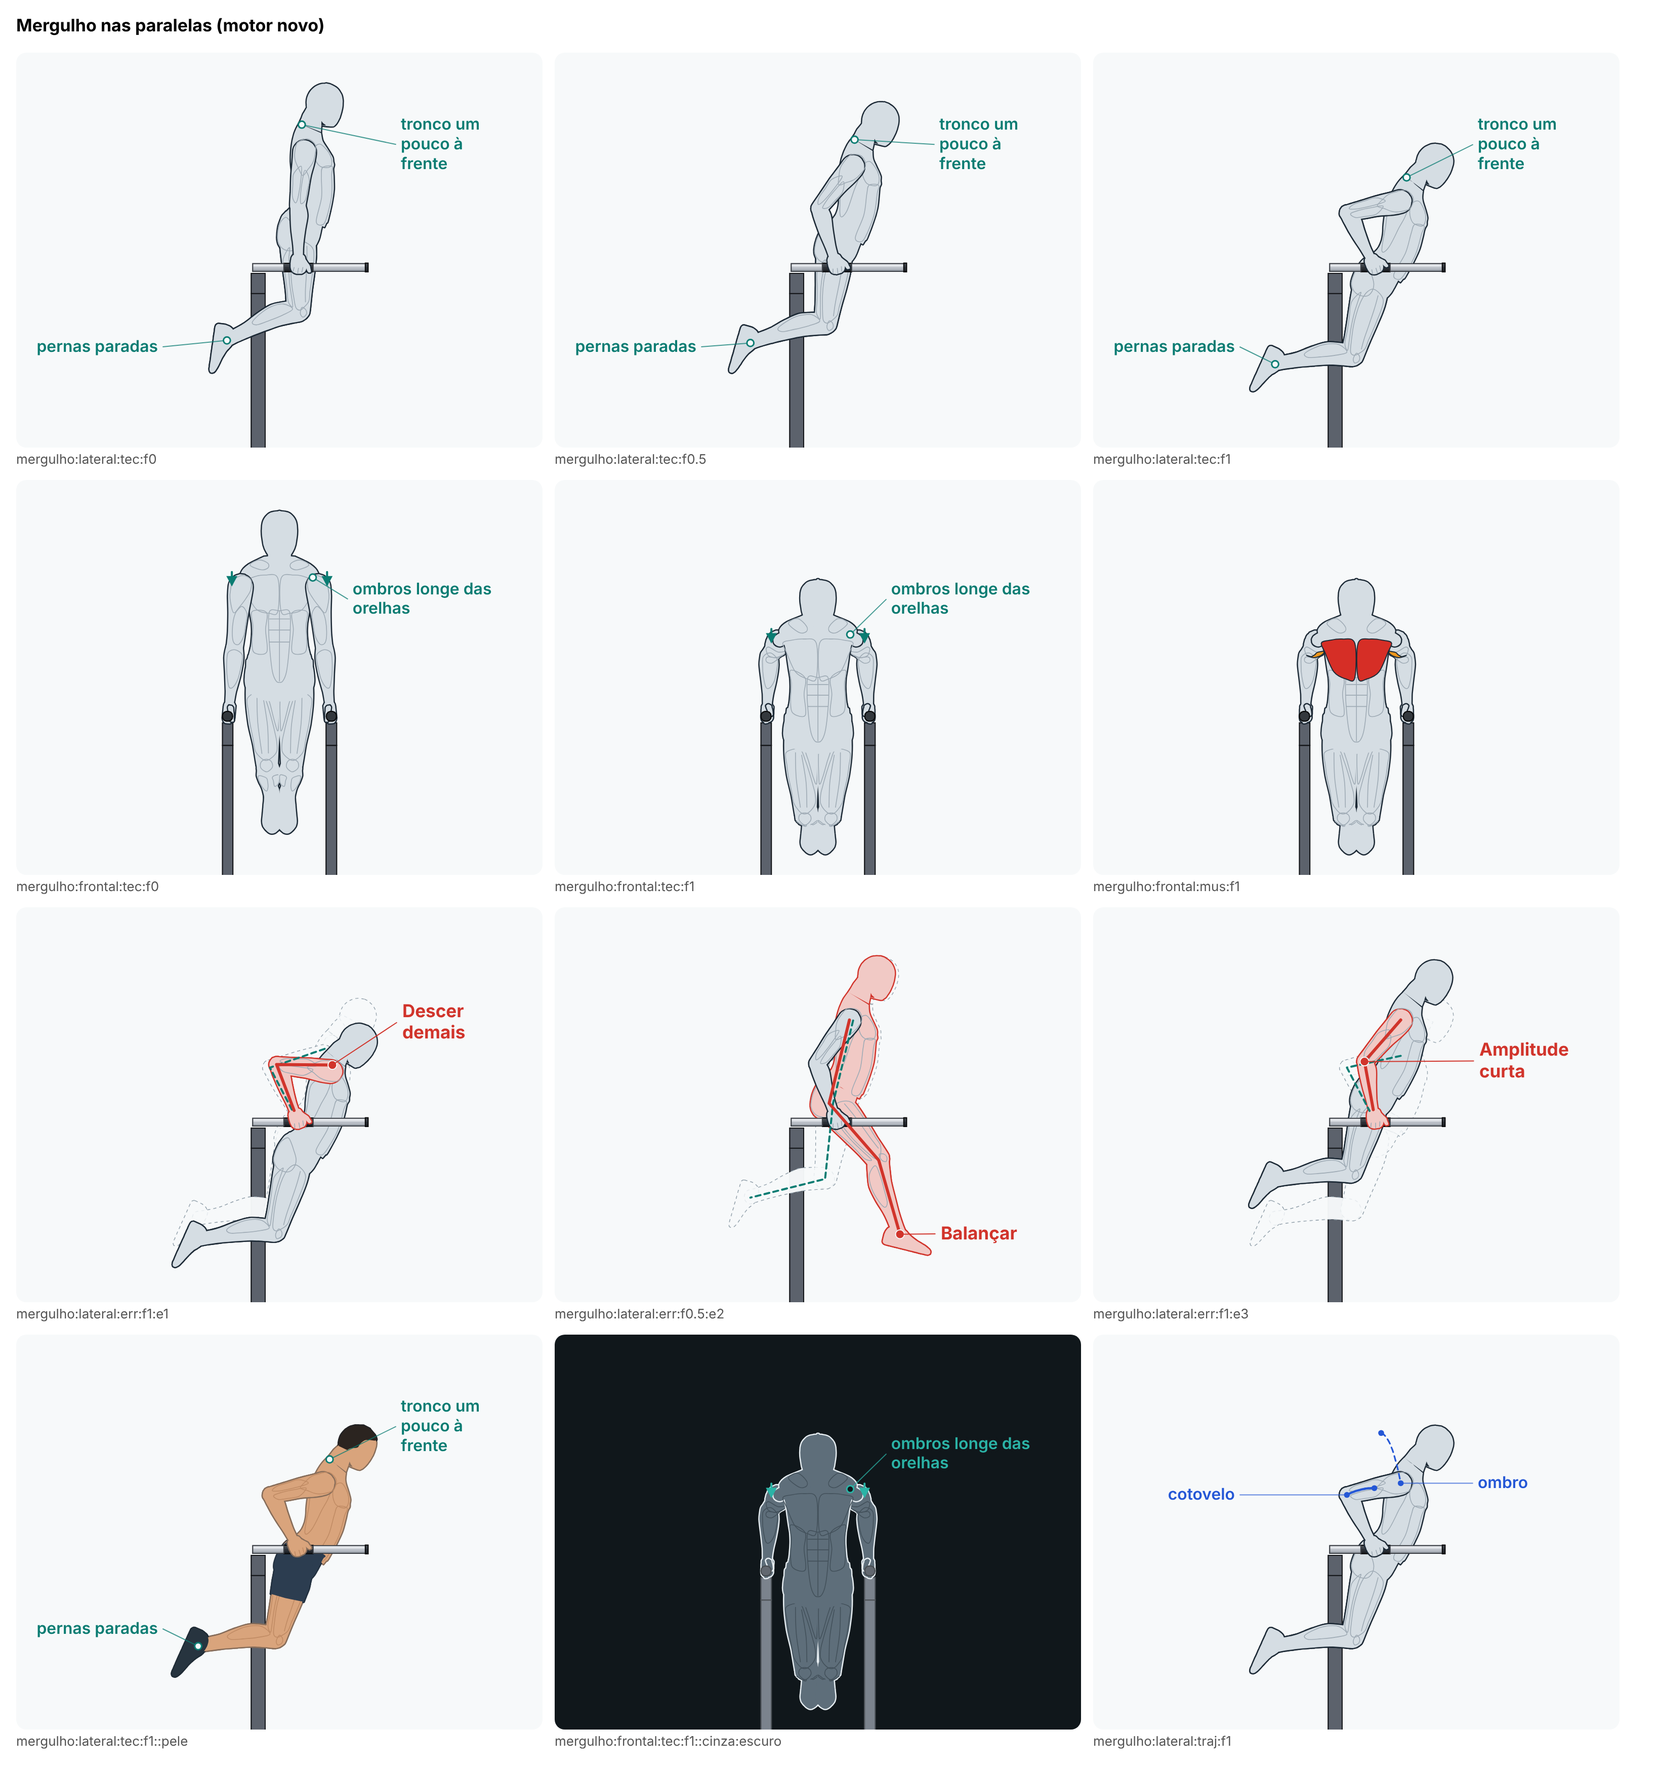
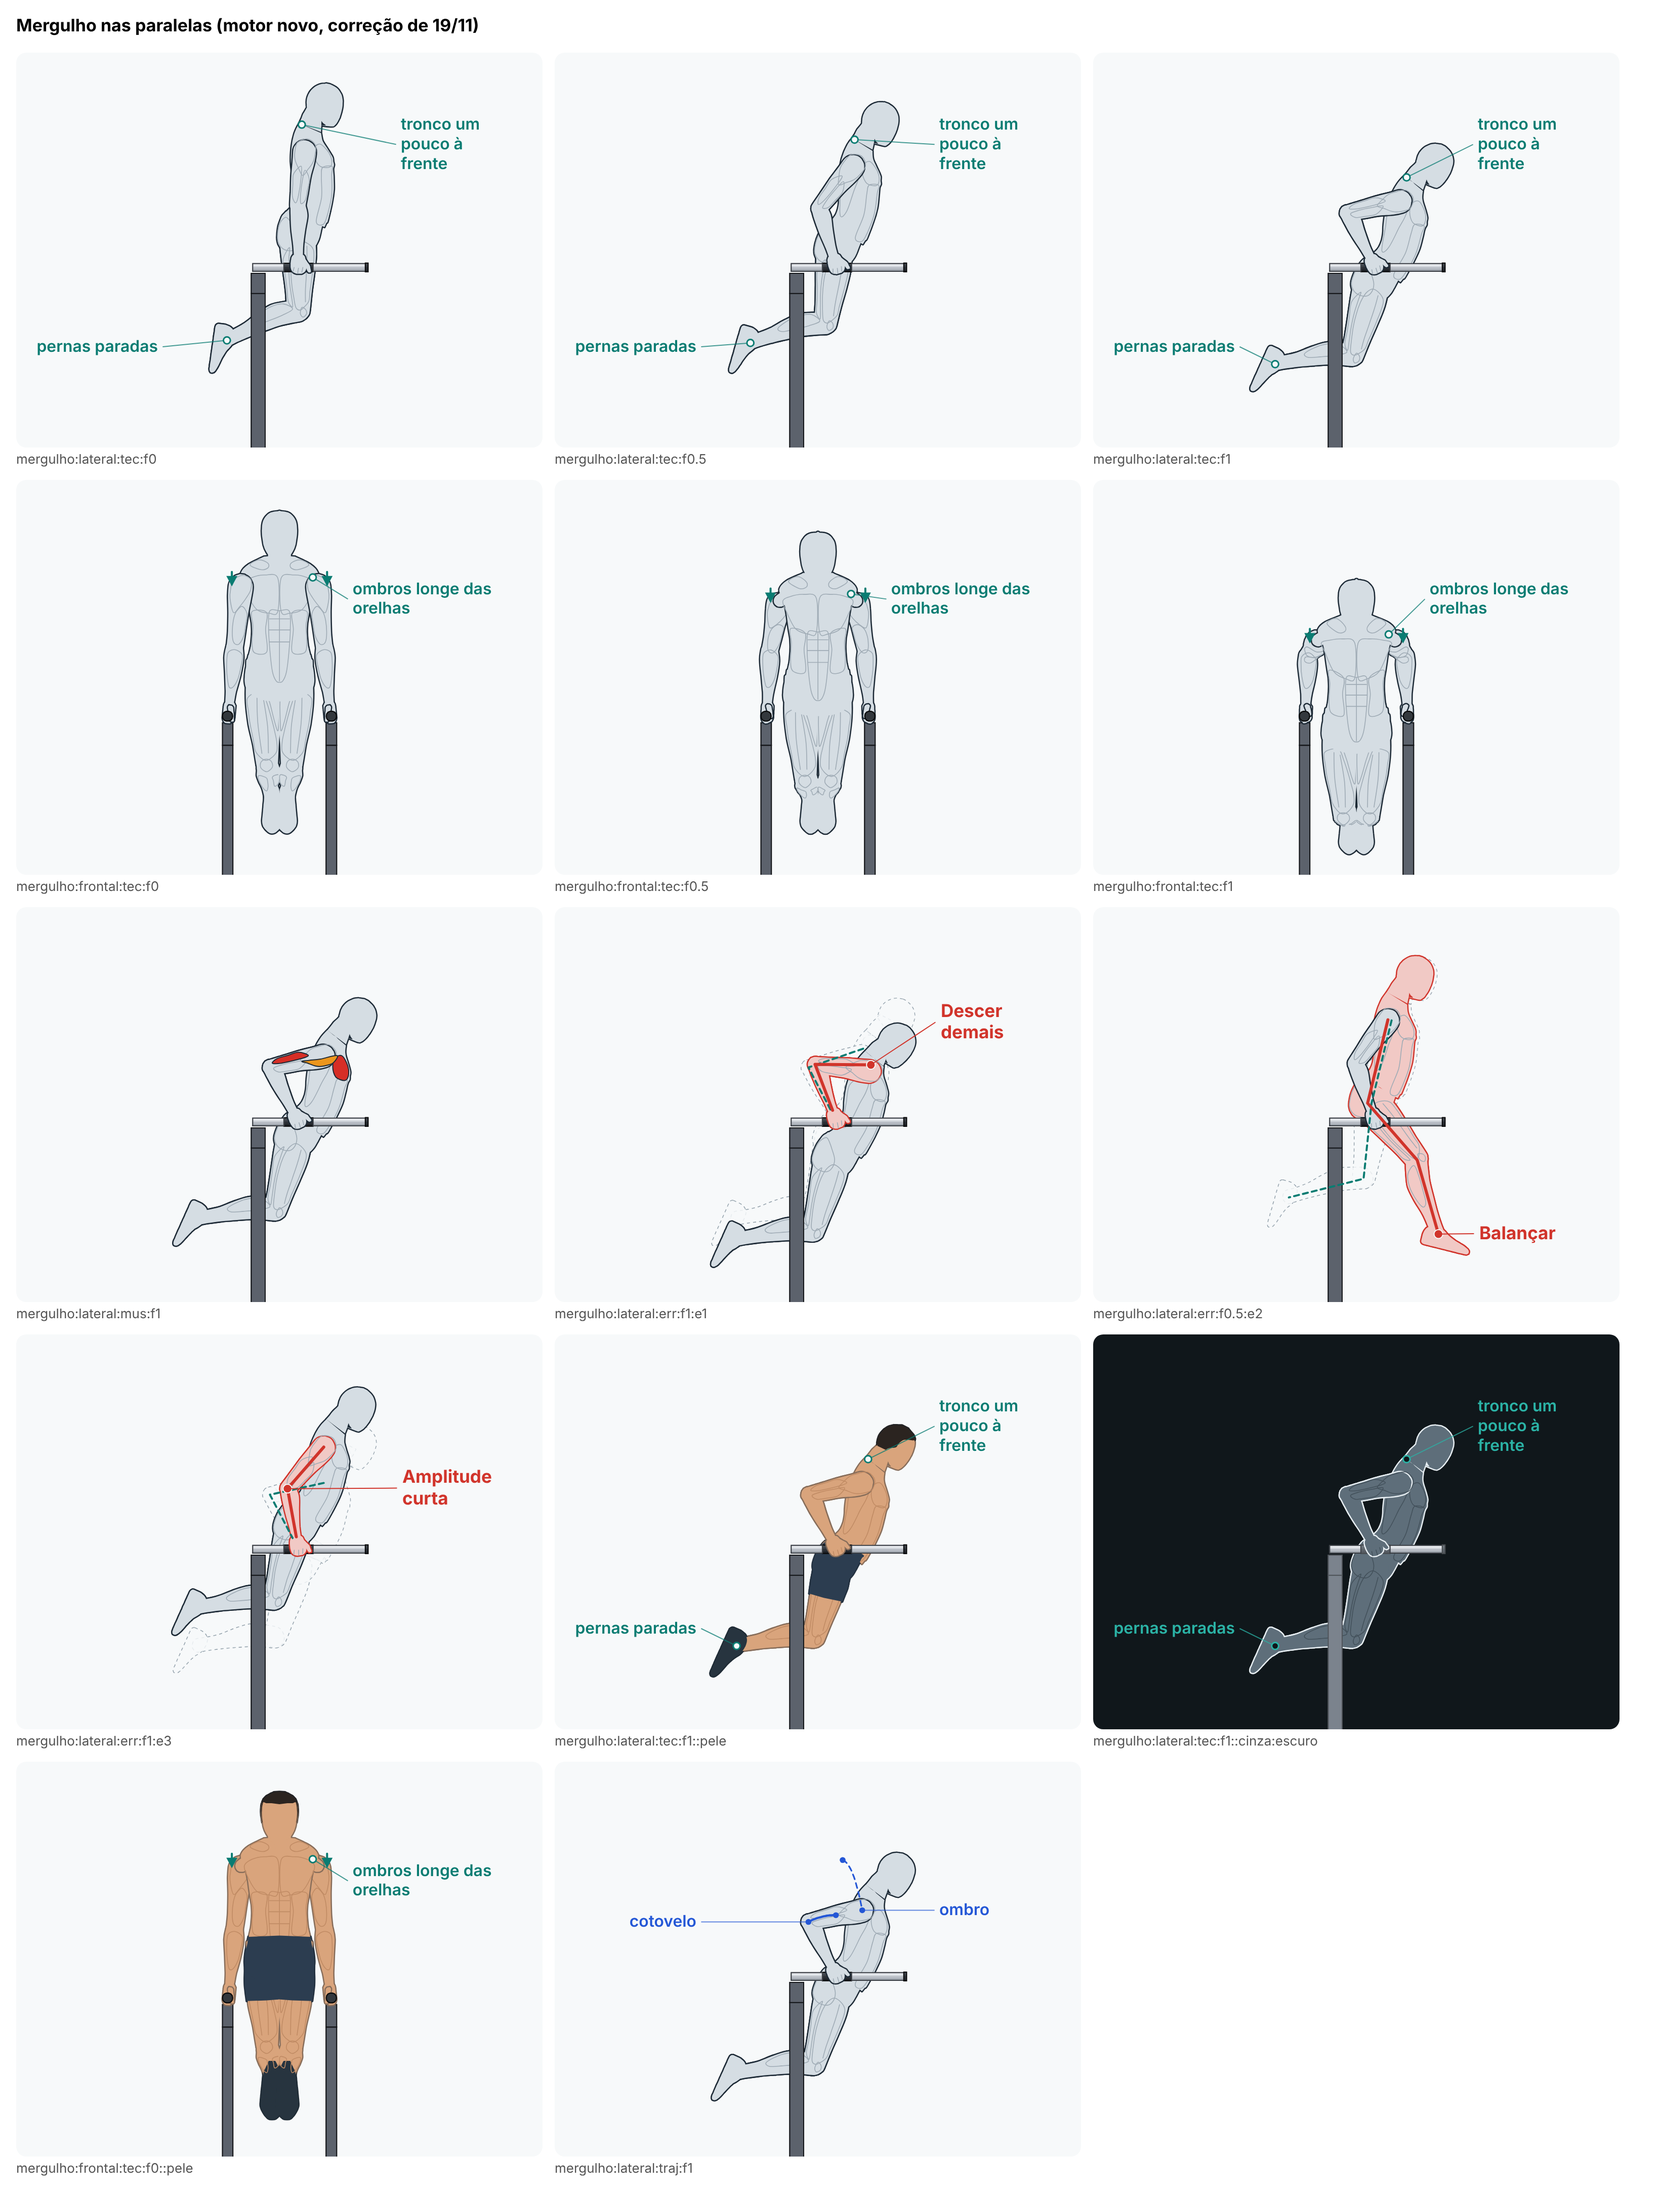
Põe a estrutura das paralelas no lugar dela no mergulho
De lado, as pernas apareciam na frente do montante da paralela de perto,
19 cm mais perto de quem olha: a estrutura era cenário, atrás do corpo.
A peça comum ganha a opção estruturaNoLugar, desligada por padrão; o
montante de perto passa a esconder 3% do corpo (uma faixa da canela).
Regra nova mergulho-paralelas-pintadas-no-lugar.

Claude-Session: https://claude.ai/code/session_01YRzts8DBGbsca9onebcMt1

diff --git a/src/engine/novo/pecas-de-cena/paralelas.ts b/src/engine/novo/pecas-de-cena/paralelas.ts
@@ -32,7 +32,40 @@ export function eixosDasParalelas(zMaos: number): Record<'R' | 'L', [V3, V3]> {
   return { R: [[-m, H, zM], [-m, H, zFim]], L: [[m, H, zM], [m, H, zFim]] };
 }
 
-export function paralelas(zMaos: number): { prims: Prim[]; peca: PecaPropria; estrutura: PecaPropria } {
+/**
+ * `estruturaNoLugar` (acréscimo de 19/11, desligado por padrão): a estrutura (os montantes até o chão e a base) é pintada
+ * na profundidade de cada parte, junto com o corpo, e não atrás dele; continua fora do enquadramento. Sem isso, de lado,
+ * as pernas, que ficam entre as paralelas, apareciam na frente do montante da paralela de perto (o mergulho, na
+ * auditoria das fases A e B).
+ */
+/**
+ * As partes da estrutura (fora as barras), na ordem em que `estrutura` as desenha, para as regras de pintura: os dois
+ * trilhos e as duas travessas da base, os quatro pés de borracha e, de cada lado (o direito, x < 0, e o esquerdo), o
+ * montante, o tubo que desce aberto até a base, o braço da frente e o tubo que desce dele. Cada uma: o eixo e o raio.
+ */
+export function partesDaEstrutura(zMaos: number): { eixo: V3[]; raio: number }[] {
+  const H = g('altura'),
+    r = g('diam') / 2,
+    m = g('vao') / 2,
+    tl = g('tuboLarg'),
+    tp = g('tuboProf'),
+    larg = g('larg') / 2,
+    comp = g('comp') / 2;
+  const { zM, zBase } = medidas(zMaos);
+  const out: { eixo: V3[]; raio: number }[] = [];
+  for (const s of [-1, 1]) out.push({ eixo: [[s * larg, 2, zBase - comp], [s * larg, 2, zBase + comp]], raio: 2 });
+  for (const z of [zBase - comp, zBase + comp]) out.push({ eixo: [[-larg, 2, z], [larg, 2, z]], raio: 2 });
+  for (const sx of [-1, 1]) for (const z of [zBase - comp + 3, zBase + comp - 3]) out.push({ eixo: [[sx * (larg - 2), 0.6, z]], raio: 3 });
+  for (const s of [-1, 1]) {
+    const x = s * m;
+    out.push({ eixo: [[x, H - r - 12, zM], [x, 30, zM]], raio: Math.min(tl, tp) / 2 });
+    out.push({ eixo: [[x, 30, zM], [s * larg, 3, zM]], raio: Math.min(tl, tp * 0.8) / 2 });
+    out.push({ eixo: [[x, 30, zM], [x, 30, zBase + comp]], raio: 2 });
+    out.push({ eixo: [[x, 30, zBase + comp], [s * larg, 3, zBase + comp]], raio: 2 });
+  }
+  return out;
+}
+export function paralelas(zMaos: number, o: { estruturaNoLugar?: boolean } = {}): { prims: Prim[]; peca: PecaPropria; estrutura: PecaPropria } {
   const H = g('altura'),
     r = g('diam') / 2,
     m = g('vao') / 2,
@@ -67,7 +100,7 @@ export function paralelas(zMaos: number): { prims: Prim[]; peca: PecaPropria; es
   const estrutura: PecaPropria = {
     t: 'propria',
     nome: 'estrutura das paralelas',
-    cenario: true,
+    ...(o.estruturaNoLugar ? { noQuadro: [] } : { cenario: true }),
     fixa: [zMaos],
     desenhar(C, M, o) {
       const larg = g('larg') / 2,

diff --git a/src/engine/novo/regras/mergulho.ts b/src/engine/novo/regras/mergulho.ts
@@ -6,9 +6,11 @@ import { f1, faixa } from '../conferir-util';
 import type { Regra } from '../conferir-util';
 import { LADOS, poseEmPe, resolver } from '../esqueleto';
 import type { Esq } from '../esqueleto';
-import { bracoAbaixoDaHorizontal } from '../exercicios/mergulho';
+import { bracoAbaixoDaHorizontal, mergulho } from '../exercicios/mergulho';
+import { partesDaEstrutura } from '../pecas-de-cena/paralelas';
 import type { Corpo } from '../tabelas';
 import { angulo, mul, paraRef, sub } from '../vec';
+import { regraDePintura } from './ordem-de-pintura';
 
 const primeiro = <T>(q: T[]) => q[0]!;
 const ultimo = <T>(q: T[]) => q[q.length - 1]!;
@@ -29,6 +31,17 @@ function ombroAOrelhaEmPe(corpo: Corpo): number {
 const pernas = (e: Esq) => ({ quadril: angulo(sub(e.lado.R.joelho, e.lado.R.quadril), mul(e.pelve.y, -1)), joelho: e.lado.R.ang.joelho });
 
 export const REGRAS_MERGULHO: Record<string, Regra> = {
+  // A estrutura das paralelas (os montantes até o chão e a base, parte por parte) contra o corpo, nos dois lados, em
+  // cada vista do guia (acréscimo de 19/11, auditoria das fases A e B): de lado, as pernas, que ficam entre as
+  // paralelas, apareciam na frente do montante da paralela de perto, 19 cm mais perto de quem olha.
+  'mergulho-paralelas-pintadas-no-lugar': regraDePintura({
+    exercicio: () => mergulho,
+    nome: 'a estrutura das paralelas',
+    peca: (q) => {
+      const p = q.pecas?.find((x) => x.t === 'propria' && x.nome === 'estrutura das paralelas');
+      return p ? [{ peca: p, partes: partesDaEstrutura(0).map((pa, i) => ({ ...pa, itens: [i] })) }] : [];
+    },
+  }),
   'mergulho-bracos-estendidos-em-cima': (q) => {
     const c = primeiro(q).esq.lado.R.ang.cotovelo;
     return { medido: `em cima, o cotovelo dobra ${f1(c)}°`, ok: c >= 3 && c <= 15 };

diff --git a/src/engine/novo/exercicios/mergulho.ts b/src/engine/novo/exercicios/mergulho.ts
@@ -78,7 +78,9 @@ function quadro(corpo: Corpo, u: number, erro?: string): Quadro {
   // o cotovelo vai da dobra de cima à de baixo, sem tranco; a altura do corpo sai dele, com o corpo no prumo
   const balanco = erro === 'e2' ? f('erro.balanco.z') * Math.sin(Math.PI * u) ** 2 : 0;
   const e = corpoCom(corpo, u, mix(f('cotovelo.cima'), embaixo, u), erro, balanco);
-  const par = paralelas(0);
+  // a estrutura das paralelas no lugar dela na pintura: de lado, o montante da paralela de perto fica na frente das
+  // pernas (19 cm mais perto de quem olha), e não atrás delas (a regra mergulho-paralelas-pintadas-no-lugar mede)
+  const par = paralelas(0, { estruturaNoLugar: true });
   const eixo = eixosDasParalelas(0);
   return {
     esq: e,

diff --git a/docs/revisoes/animacao-nova/lote-A6/mergulho.md b/docs/revisoes/animacao-nova/lote-A6/mergulho.md
@@ -54,3 +54,19 @@ As paralelas são a peça aprovada da elevação de joelhos nas paralelas (Body-
 - **De frente, a descida quase não aparece:** os cotovelos vão para trás e somem atrás do braço; a vista de frente serve aos ombros e ao peito. De três quartos a descida se lê melhor, mas o peito some (ver "As vistas").
 - **As pernas dobradas com os pés para trás** são escolha de desenho (a ficha não diz); com as barras a 132 cm, as pernas esticadas também não chegariam ao chão.
 - **No erro "Balançar"**, de lado, as pernas esticadas para a frente ficam desenhadas por cima do montante das paralelas (só sobreposição; elas não encostam nele).
+
+## Correção de 19/11 (auditoria)
+
+A auditoria das fases A e B (M2) achou que, de lado, as pernas, que ficam entre as paralelas, apareciam na frente da coluna (o montante) da paralela de perto, que está 19 cm mais perto de quem olha. **Causa:** a estrutura das paralelas (os montantes até o chão e a base) ia inteira para a camada de cenário, pintada antes do corpo inteiro, para ficar fora do enquadramento.
+
+**A decisão, medida.** O corte de ilustração (o cenário atrás do corpo) seria a escolha certa se o montante de perto, na frente, escondesse uma parte grande do corpo. Medi por pixel (o corpo pintado numa cor só, 800 × 600): com a estrutura no lugar, o montante de perto esconde uma faixa da canela, 781 a 837 pixels a mais que o cenário, de 24 550 a 27 713 do corpo: 3,0% a 3,4%. As pernas continuam se lendo (a coxa, o joelho e o pé aparecem) e a faixa é o que uma foto mostraria. De frente, os montantes ficam atrás do corpo de qualquer jeito. Por isso a estrutura foi para o lugar dela na pintura.
+
+**O que mudou.**
+- A peça comum `paralelas` ganhou a opção `estruturaNoLugar` (desligada por padrão): a estrutura é pintada na profundidade de cada parte, com o corpo, e continua fora do enquadramento. A peça também exporta `partesDaEstrutura` (o eixo e o raio de cada parte, para as regras). Só este exercício liga a opção; a elevação de joelhos nas paralelas não muda.
+- A regra nova `mergulho-paralelas-pintadas-no-lugar` mede cada parte da estrutura (os trilhos e as travessas da base, os pés de borracha e, de cada lado, o montante, o tubo que desce até a base, o braço da frente e o tubo que desce dele) contra cada parte do corpo, dos dois lados, nas duas vistas.
+
+**Antes → depois** (pior quadro, de lado): a perna direita, escondida pelo montante de perto, era pintada atrás da estrutura inteira (cenário) → 25,4 cm à frente dela na ordem certa; a perna esquerda, 20,1 (ela esconde o montante de longe) e 30,7 (é escondida pelo de perto). De frente, nada se cruza com a estrutura. A regra falha no estado antigo e passa no novo; a conferência automática dá 0 falha e os mesmos 2 avisos.
+
+Como a ordem de pintura é medida (a regra nova, com o núcleo em `src/engine/novo/regras/ordem-de-pintura.ts`): em cada vista do guia (as do exercício e as dos erros), a cada 3 quadros do movimento certo e em cada erro no começo, no meio e no fim, um raio sai de cada ponto do eixo da peça até quem olha e de cada ponto da pele virada para quem olha (a 85% do raio) até quem olha; se ele atravessa o corpo (os dois lados, cada grupo à parte), aquela parte do corpo tem de ser pintada depois do item que pinta a peça; se atravessa a peça, antes. A folga é a diferença de profundidade de pintura (cm; negativa = ordem errada). Contam só os cruzamentos de 4 pontos ou mais; a pele que fica dentro de outra parte do corpo ou dentro da própria peça não conta; quando a mesma parte esconde e é escondida pela mesma peça, vale o lado com mais pontos.
+
+**O que ainda não ficou bom.** Nada que eu tenha visto nas duas vistas e nos três erros.
